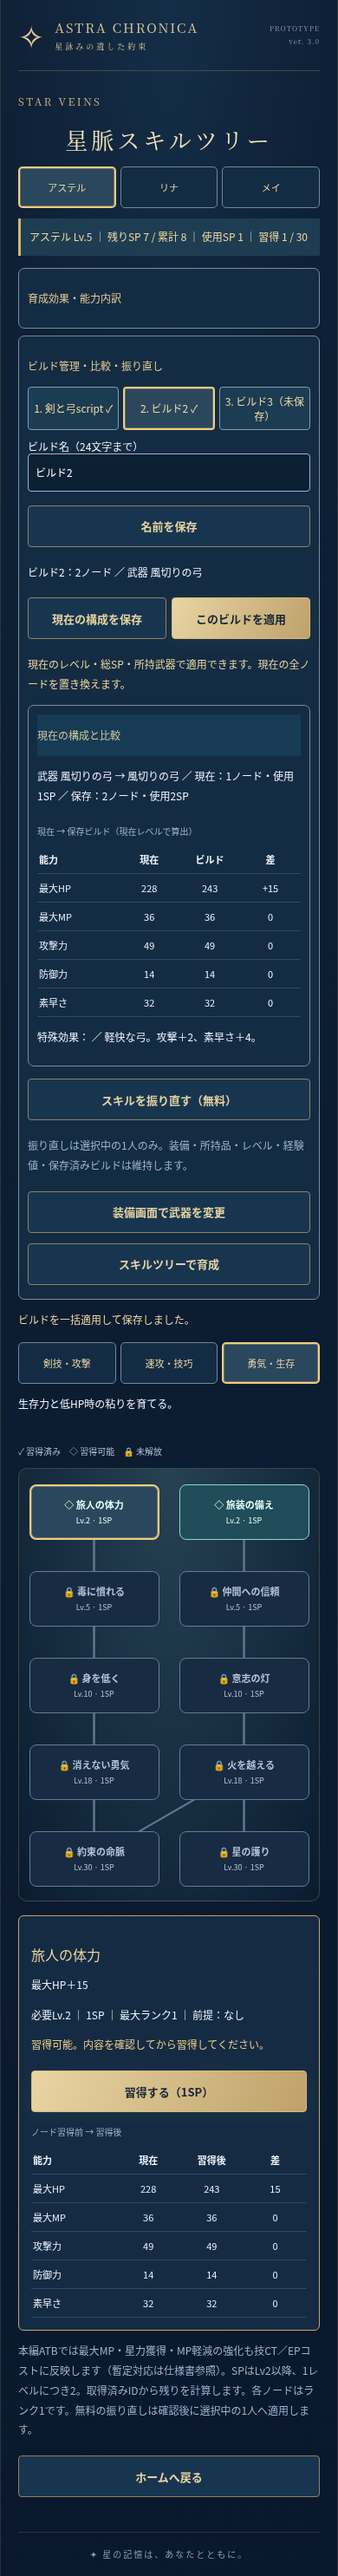
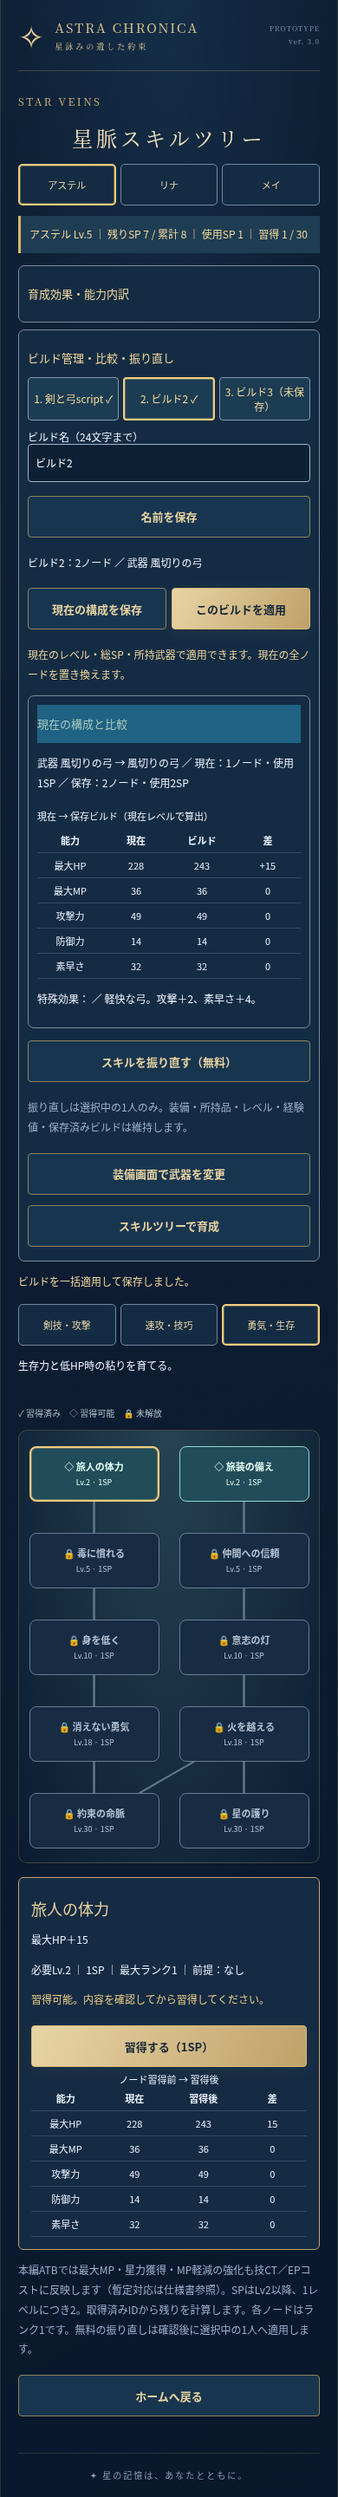
fix: clear growth screen styles when switching or returning

diff --git a/src/main.ts b/src/main.ts
@@ -73,7 +73,7 @@ function home(){screen='home';busy=false;heading('STARGAZER’S CAMP','星灯り
  button('冒険へ出発',adventure);button('章選択',chapterSelection,'secondary');button('サブクエスト',()=>showQuests(home),'secondary');button('探索記録',()=>showRecords(home),'secondary');button('冒険手帳',()=>showJournal(home),'secondary');button('戦闘開始　→',start);button('編成を見る',formation,'secondary');button('スキルツリー',()=>showGrowth('tree',home),'secondary');button('装備',()=>showGrowth('equipment',home),'secondary');button('戦闘基盤テスト（保存なし）',()=>{cancelTurn();screen='lab';mountLab(content,home,{host:canvasHost,show:(units,selected,target,targets)=>game.events.emit('stage',units,selected,units.findIndex(u=>u.id===target),targets),effect:event=>game.events.emit('battle-effect',event)})},'secondary');button('タイトルへ',title,'text-button');status();}
 function status(){content.insertAdjacentHTML('beforeend',`<p class="save-note">${storageOK?'進行はこのブラウザに自動保存されます':'保存できません。現在のプレイは続行できます'}</p>`)}
 function title(){screen='title';heading('A PROMISE WRITTEN IN THE STARS','アストラ<br>クロニカ');content.insertAdjacentHTML('beforeend','<p class="subtitle">〜星詠みの遺した約束〜</p>');draw();content.insertAdjacentHTML('beforeend','<p class="prologue">あの日、星に誓った。<br>もう一度、君と夜明けを見ると。</p>');if(gameCleared(progress))content.insertAdjacentHTML('beforeend','<p class="clear-data-badge">✧ クリア済みデータがあります</p>');button(progress.started?'ゲーム開始 · 続きから':'ゲーム開始',()=>{progress.started=true;persist();home()});status()}
-function showGrowth(kind:'tree'|'equipment',back:()=>void){if(screen==='battle')return;cancelTurn();screen=kind==='tree'?'skill-tree':'equipment';heading(kind==='tree'?'SKILL TREE':'EQUIPMENT',kind==='tree'?'スキルツリー':'装備');const options={inBattle:()=>screen==='battle',onTree:()=>showGrowth('tree',back),onEquipment:()=>showGrowth('equipment',back)};if(kind==='tree')mountSkillTree(content,progress,persist,back,options);else mountEquipment(content,progress,persist,back,options)}
+function showGrowth(kind:'tree'|'equipment',back:()=>void){if(screen==='battle')return;cancelTurn();screen=kind==='tree'?'skill-tree':'equipment';content.classList.remove('skill-tree-screen','equipment-screen');heading(kind==='tree'?'SKILL TREE':'EQUIPMENT',kind==='tree'?'スキルツリー':'装備');const options={inBattle:()=>screen==='battle',onTree:()=>showGrowth('tree',back),onEquipment:()=>showGrowth('equipment',back)};const returnToGame=()=>{content.classList.remove('skill-tree-screen','equipment-screen');back()};if(kind==='tree')mountSkillTree(content,progress,persist,returnToGame,options);else mountEquipment(content,progress,persist,returnToGame,options)}
 function formation(){screen='formation';heading('PARTY','旅の仲間');draw();content.insertAdjacentHTML('beforeend',`<article><p>編成は仮画面です。三人の役割は固定です。</p>${partyUnits().map(h=>`<h2>${h.name} Lv.${h.level} <small>${h.role}</small></h2><p>使用武器：${h.weapons.join('／')}<br>HP ${h.maxHp} · MP ${h.maxMp}<br>攻撃力 ${h.attack} · 防御力 ${h.defense} · 素早さ ${h.speed}</p>`).join('')}<p>武器はホームの「装備」から変更できます。</p></article>`);button('ホームへ戻る',home)}
 function cancelTurn(){if(stage.sys?.isActive()){stage.tweens.timeScale=1;stage.time.timeScale=1;}stopAtb?.();stopAtb=undefined;atb?.dispose();atb=undefined;battleSession++;if(turnTimer!==undefined)window.clearTimeout(turnTimer);turnTimer=undefined}
 function showQuests(back:()=>void){cancelTurn();screen='quests';heading('QUESTS','サブクエスト');mountSideQuests(content,progress,persist,back)}

diff --git a/docs/GROWTH_BUILDS_V37.md b/docs/GROWTH_BUILDS_V37.md
@@ -22,6 +22,7 @@
 
 名前はNFC正規化後24 Unicodeコードポイントまで。制御文字・不可視の書式制御文字・山括弧を除去し、空なら初期名に戻す。
 絵文字のサロゲートペアを切断せず、名前はtextContent/valueで表示する。HTMLとして挿入しない。
+画面間の直接リンクでは前画面のCSSクラスを取り除き、ホームへ戻る際にも育成/装備専用クラスが残らないようにする。
 新しいUIは仮表示で、横スクロールを要求しない。主要ボタンは44px以上。確認はネイティブdialogでキーボード/スクリーンリーダーにも対応する。
 
 ## 適用の検証・一括性
